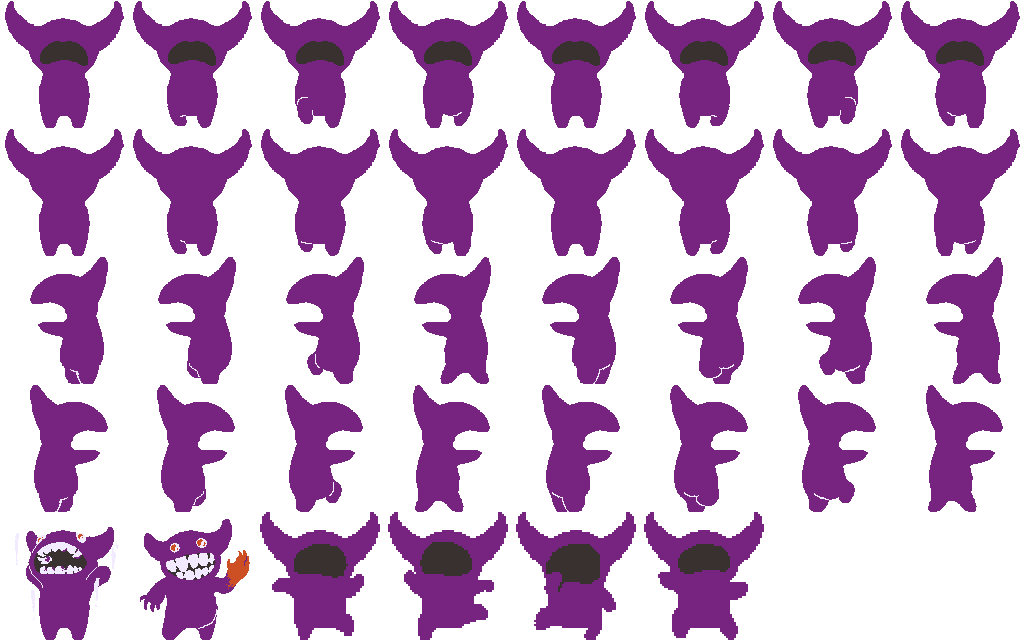
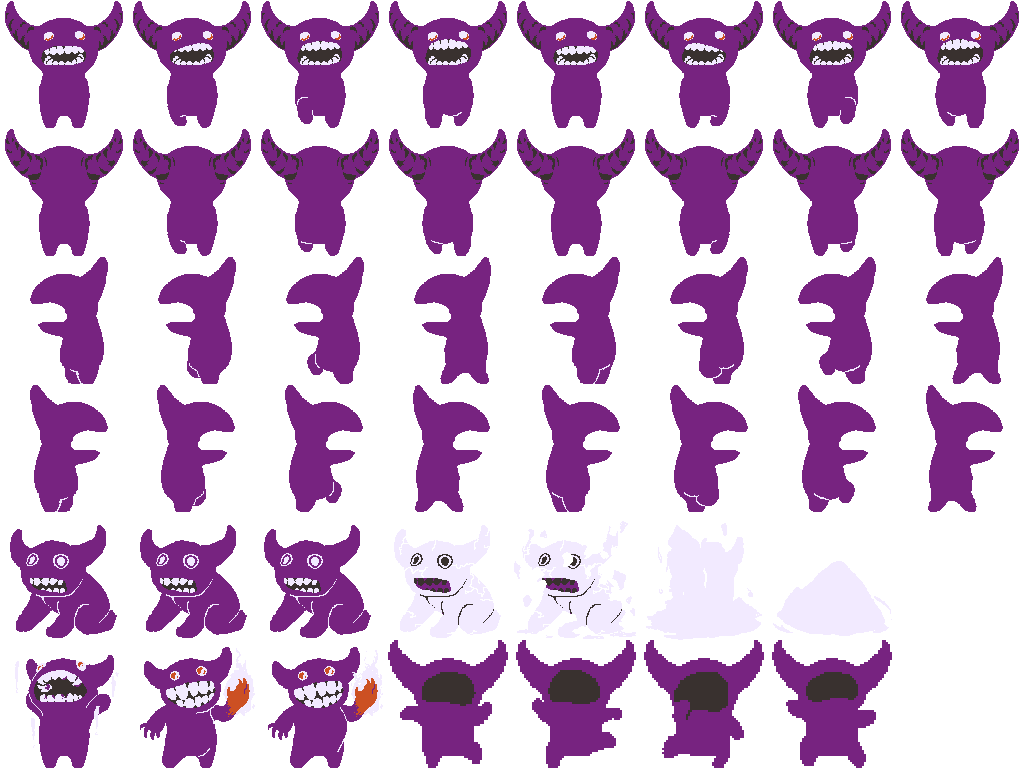
better death animation

diff --git a/js/demon.js b/js/demon.js
@@ -4,7 +4,7 @@ var Demon = function Demon(game, x, y) {
   this.animations.add('up',    [8,  9,  10, 11, 12, 13, 14, 15], 12);
   this.animations.add('left',  [16, 17, 18, 19, 20, 21, 22, 23], 12);
   this.animations.add('right', [24, 25, 26, 27, 28, 29, 30, 31], 12);
-  this.animations.add('dead',  [32], 0.5);
+  this.animations.add('dead',  [32, 33, 34, 35, 36, 37, 38], 10, false);
   this.animations.add('idle',  [34, 35, 36, 37], 12);
 
   this.anchor.setTo(.5, .75);
@@ -17,27 +17,8 @@ var Demon = function Demon(game, x, y) {
   this.defaultWalkSpeed = 200;
   this.walkSpeed = this.defaultWalkSpeed;
   this.isVictorious = false;
-  this.starPower = false;
 
   this.makeGhosts();
-
-  this.emitter = this.game.add.emitter(0, 0, 100);
-  this.emitter.makeParticles('particle');
-  //this.addChild(this.emitter);
-  this.emitter.minParticleSpeed.setTo(-50, -50);
-  this.emitter.maxParticleSpeed.setTo(50, -500);
-  this.emitter.gravity = 50;
-  this.emitter.start(false, 2000, 10);
-  this.emitter.on = false;
-
-  this.emitter2 = this.game.add.emitter(0, 0, 100);
-  this.emitter2.makeParticles('particle');
-  //this.addChild(this.emitter);
-  this.emitter2.minParticleSpeed.setTo(-50, -50);
-  this.emitter2.maxParticleSpeed.setTo(50, -500);
-  this.emitter2.gravity = 50;
-  this.emitter2.start(false, 2000, 10);
-  this.emitter2.on = false;
 };
 
 Demon.preload = function preload(game) {
@@ -58,33 +39,8 @@ Demon.prototype.constructor = Demon;
 Demon.prototype.update = function() {
   Phaser.Sprite.prototype.update.call(this);
 
-  //Set star power particle emitters
-  if (this.starPower) {
-    switch (this.facing) {
-      case Phaser.UP:
-        this.emitter.emitX = this.x + 20;
-        this.emitter2.emitX = this.x - 20;
-        this.emitter.emitY = this.y + 25;
-        this.emitter2.emitY = this.y + 25;
-        break;
-      case Phaser.DOWN:
-        this.emitter.emitX = this.x + 20;
-        this.emitter2.emitX = this.x - 20;
-        this.emitter.emitY = this.y + 30;
-        this.emitter2.emitY = this.y + 30;
-        break;
-      case Phaser.LEFT:
-      case Phaser.RIGHT:
-        this.emitter.emitX = this.x + 10;
-        this.emitter.emitY = this.y + 25;
-        this.emitter2.emitX = this.x - 10;
-        this.emitter2.emitY = this.y + 25;
-        break;
-    }
-  }
-
   // movement
-  if (this.alive) {
+  if (this.alive && !this.isDying) {
     if (this.game.physics.arcade.distanceToPointer(this) > 10) {
       this.game.physics.arcade.moveToPointer(this, this.walkSpeed);
       this.faceVelocity();
@@ -99,9 +55,17 @@ Demon.prototype.update = function() {
 };
 
 Demon.prototype.kill = function() {
-  BaseSprite.prototype.kill.call(this);
-  this.animations.play('dead');
-  this.rubberbandConst = -0.08;
+  if (!this.isDying && this.alive) {
+    this.body.velocity.x = 0;
+    this.body.velocity.y = 0;
+    this.isDying = true;
+    this.animations.play('dead');
+    this.rubberbandConst = -0.08;
+    var _this = this;
+    this.game.time.events.add(2000, function() {
+      BaseSprite.prototype.kill.call(this);
+    });
+  }
 };
 
 Demon.prototype.setWalkSpeed = function(speed) {
@@ -132,10 +96,4 @@ Demon.prototype.updateGhosts = function() {
         + ((Math.random() - 0.5) * this.rubberbandConst * 2.0);
     }
   }
-};
-
-Demon.prototype.toggleStarPower = function (enabled) {
-  this.starPower = enabled;  
-  this.emitter.on = enabled;
-  this.emitter2.on = enabled;
 };
